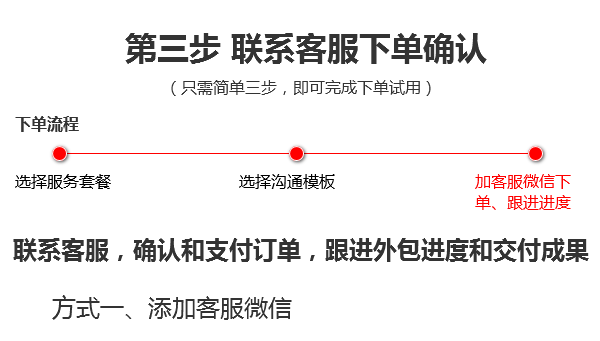
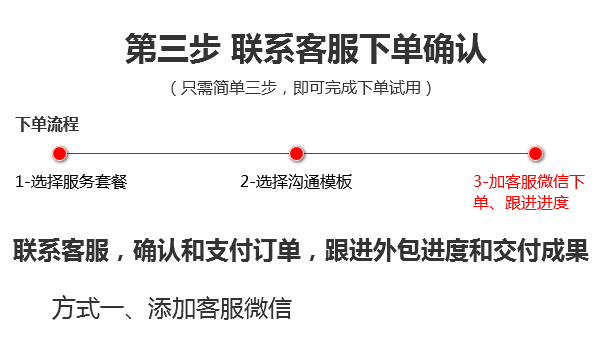
v0.7.0.6
1.费用计算优化，需要xx人改成，需要xx人/天。同时，修复话费计算的BUG，忘了乘以接通率40%。
2.图片素材优化。

Changed region(s): [[0.78, 0.4985, 0.99, 0.6158], [0.39, 0.4985, 0.6, 0.5572], [0.03, 0.4985, 0.21, 0.5572]]

diff --git a/step1.html b/step1.html
@@ -93,7 +93,7 @@
 <body>
 <div class="index">
 	<div style="position:relative;">
-		<img src="./images/step1-1.jpg">
+		<img src="./images/step1-1.png">
 	</div>
 	<div  class="item select" style="font-weight:bold;">
 		<div class="Customer NumBtn" data-step="1000">
@@ -187,10 +187,10 @@
 		var Customer =  parseInt(document.querySelector(".Customer .BuyNum").innerHTML);
 		var Time =  parseInt(document.querySelector(".Time .BuyNum").innerHTML);
 		
-		document.querySelector(".need .num").innerHTML = Math.ceil(Customer/Time/1000);
+		document.querySelector(".need .num").innerHTML = Math.ceil(Customer/1000);
 		document.querySelector(".sprice .num").innerHTML = Math.ceil(Customer/1000*400);
-		document.querySelector(".hprice .num").innerHTML = Math.ceil(Customer*0.1);
-		document.querySelector(".tprice .num").innerHTML = Math.ceil(Customer/1000*400) + Math.ceil(Customer*0.1);
+		document.querySelector(".hprice .num").innerHTML = Math.ceil(Customer*0.4*0.1);
+		document.querySelector(".tprice .num").innerHTML = Math.ceil(Customer/1000*400) + Math.ceil(Customer*0.4*0.1);
     }
 	
 </script>

diff --git a/step2.html b/step2.html
@@ -78,7 +78,7 @@
 <body>
 <div class="index">
 	<div style="position:relative;">
-		<img src="./images/step2-1.jpg">
+		<img src="./images/step2-1.png">
 	</div>
 	
 	<div class="temp_list display_flex flex_c">
